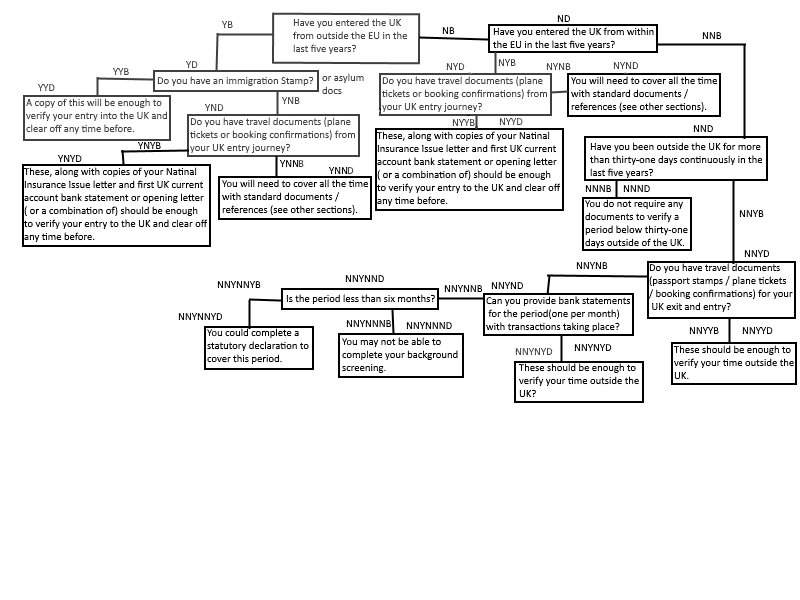
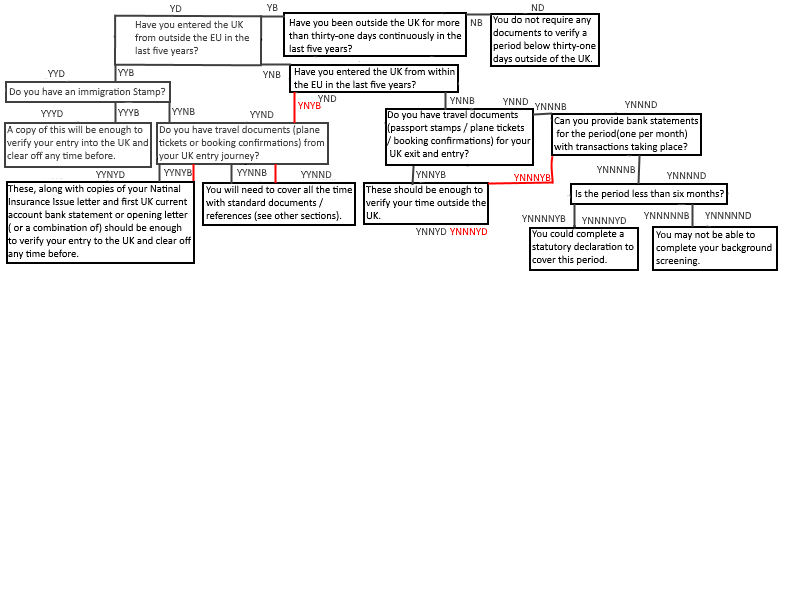
second work
flow chart complete, first question pages complete

Changed region(s): [[0.0, 0.0, 1.0, 0.69]]

diff --git a/website/outUKDocs/YD.html b/website/outUKDocs/YD.html
@@ -23,13 +23,13 @@
   <img src="../external/buddy.png" alt="buddy image"/>
 </div>
 
-<!--first question-->
+<!--second question-->
 
 <div class="border box">
-  <p>Have you been outside of the UK for more than thirty-one days continuously
-     during the last five years?</p><br>
-  <a id="YB" class="border" href="YD.html">Yes</a>
-  <a id="NB" class="border" href="ND.html">No</a>
+  <p>Have you entered the UK from outside of the EU during the last five 
+      years?</p><br>
+  <a id="YYB" class="border">Yes</a>
+  <a id="YNB" class="border">No</a>
 </div>
 
 </body>

diff --git a/website/outUKDocs/ND.html b/website/outUKDocs/ND.html
@@ -26,10 +26,8 @@
 <!--first question-->
 
 <div class="border box">
-  <p>Have you been outside of the UK for more than thirty-one days continuously
-     during the last five years?</p><br>
-  <a id="YB" class="border" href="YD.html">Yes</a>
-  <a id="NB" class="border" href="ND.html">No</a>
+  <p>You do not require any documents to verify a period less than thirty-one 
+      days continuously outside of the UK.</p><br>
 </div>
 
 </body>
